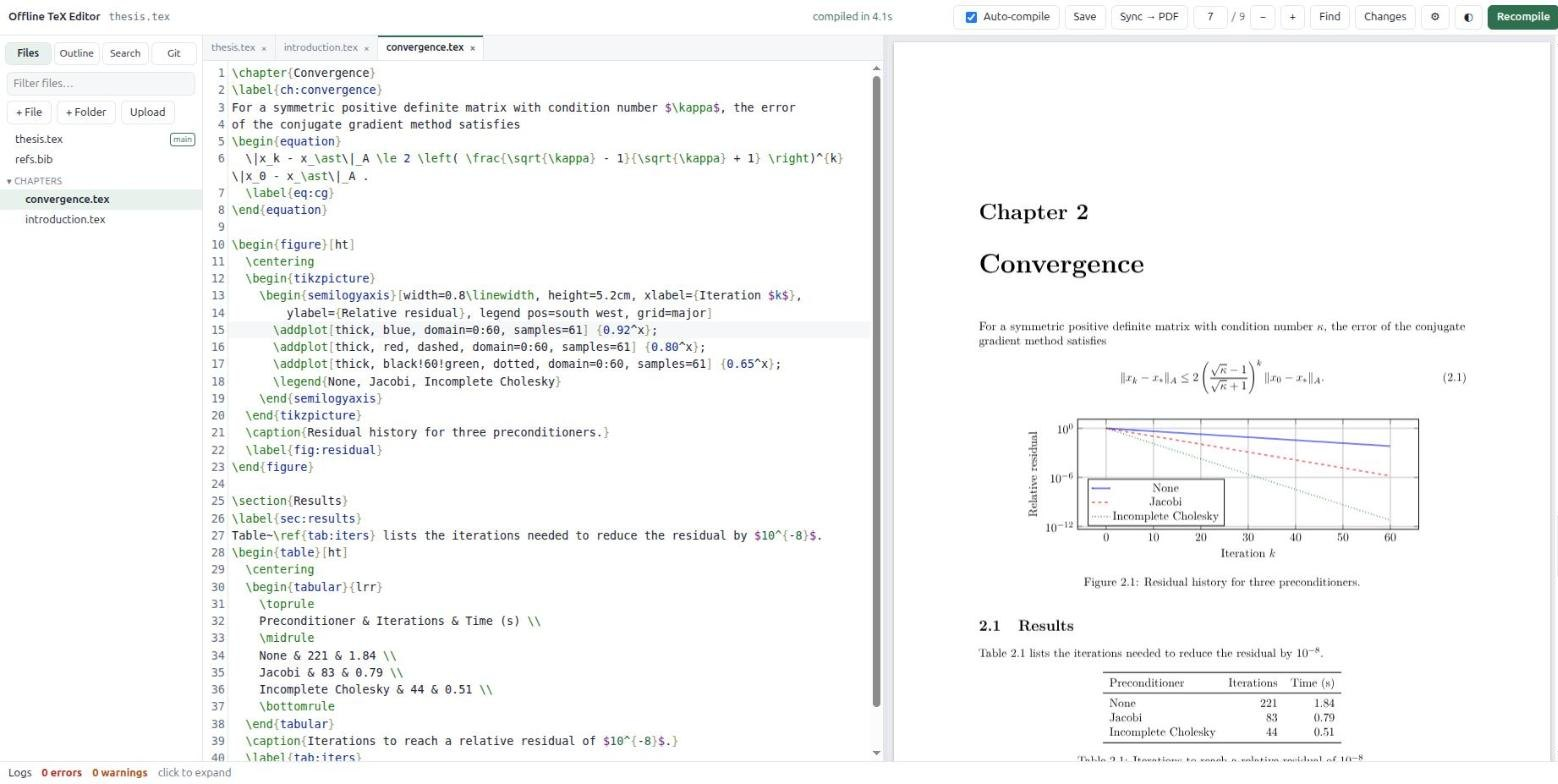
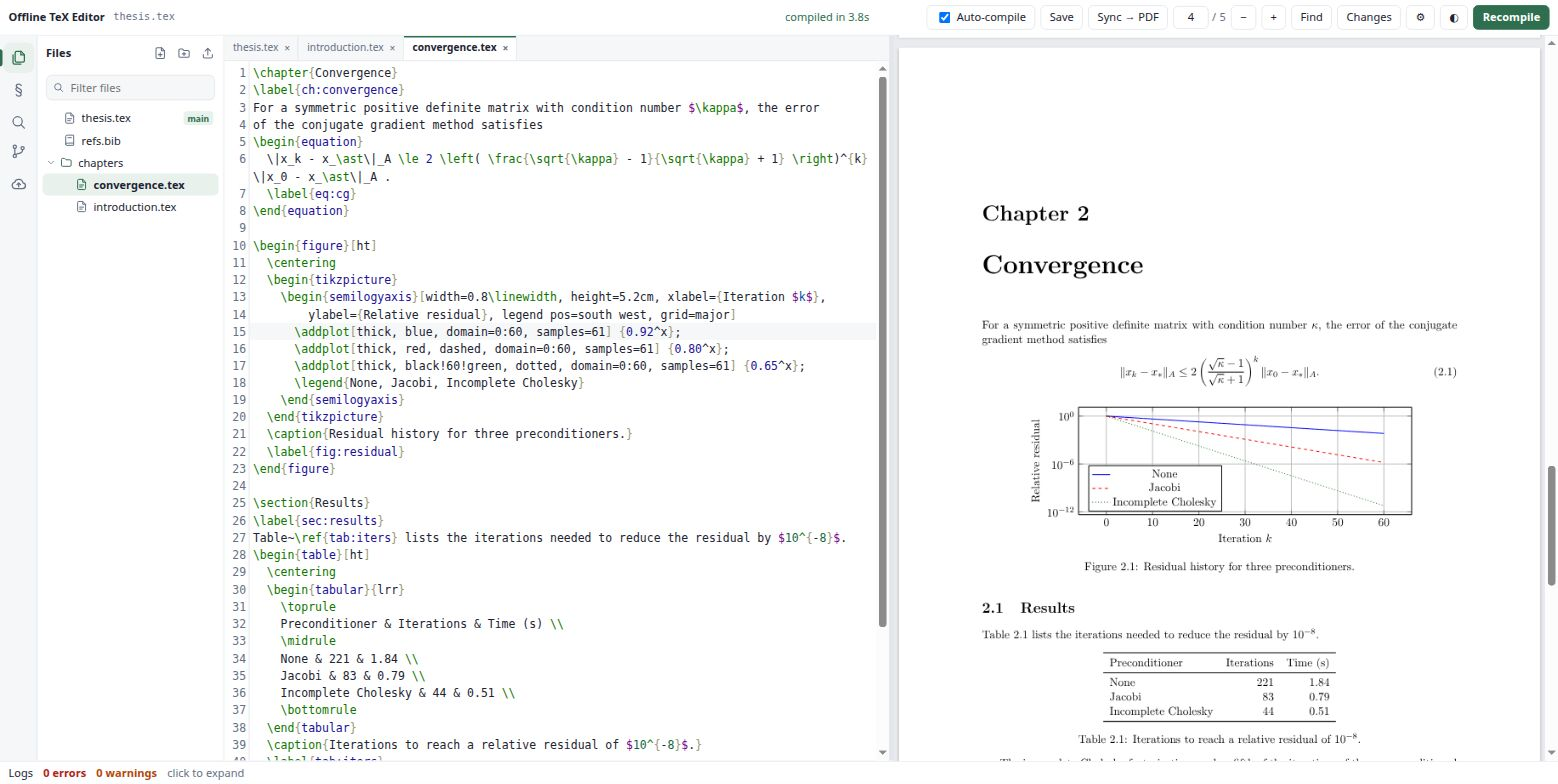
Release 0.3.1
A side bar with icons for the panels, and a new screenshot for the website that shows it.

diff --git a/README.md b/README.md
@@ -144,7 +144,7 @@ TeX installation, so reports are welcome.
 
 ## What's new
 
-### 0.3.1 (not released yet)
+### 0.3.1 (2026-11-22)
 
 - **A new side bar**: one icon each for Files, Outline, Search, Git and WebDAV, instead of tab buttons cut short. The
   number of changed files shows on the Git icon, and a dot on the WebDAV icon when there is something to sync
